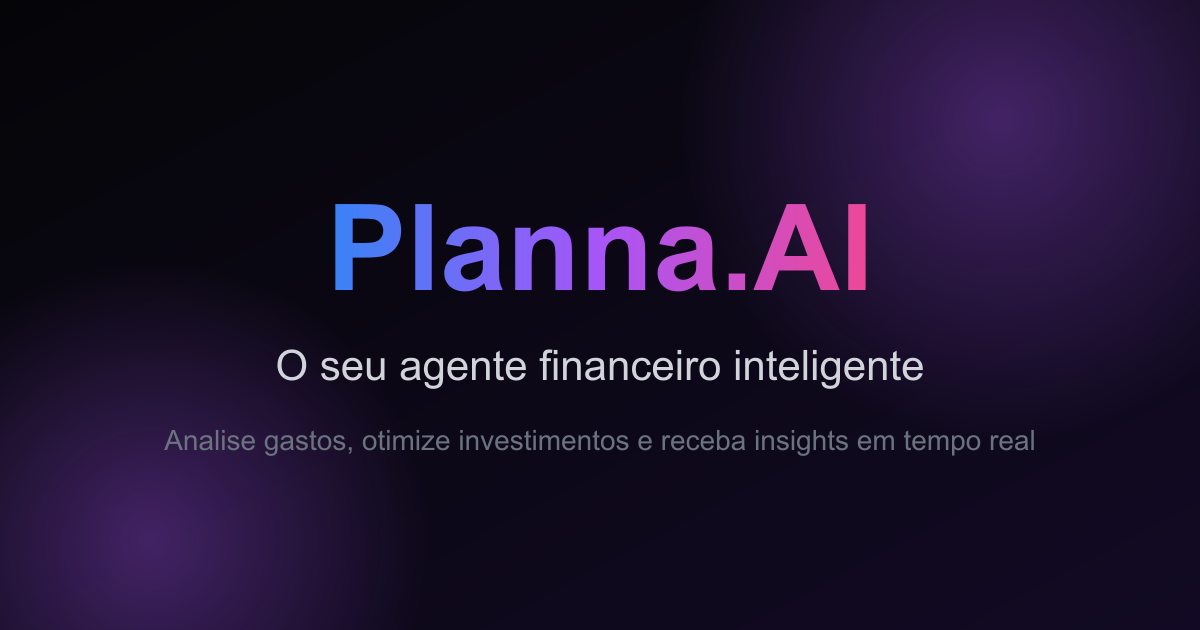
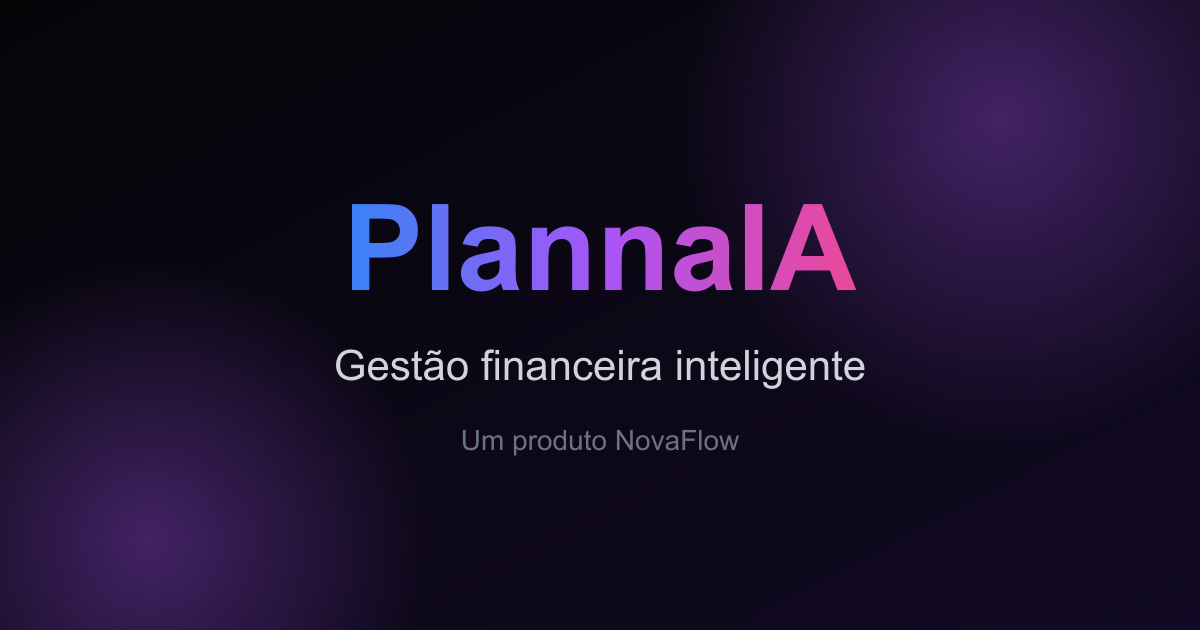
brand: standardize NovaFlow as company, PlannaIA as product

Changed region(s): [[0.2775, 0.3016, 0.74, 0.4825], [0.2158, 0.5429, 0.7708, 0.6333], [0.1233, 0.6635, 0.8633, 0.7238]]

diff --git a/src/app/layout.js b/src/app/layout.js
@@ -17,8 +17,8 @@ const dmSans = DM_Sans({
 
 // AQUI ESTÁ A MÁGICA DO SEO E DOS FAVICONS
 export const metadata = {
-  title: 'Planna.AI | O seu agente financeiro inteligente',
-  description: 'Analise seus gastos, otimize seus investimentos e receba insights em tempo real com inteligência artificial.',
+  title: 'PlannaIA - Gestão Financeira com IA | NovaFlow',
+  description: 'O PlannaIA analisa seus gastos, otimiza seus investimentos e entrega insights em tempo real com inteligência artificial. Um produto da NovaFlow.',
   icons: {
     icon: [
       { url: '/favicon/favicon.ico' },
@@ -29,13 +29,13 @@ export const metadata = {
   },
   manifest: '/favicon/site.webmanifest',
   openGraph: {
-    title: 'Planna.AI | O seu agente financeiro inteligente',
-    description: 'A revolução das suas finanças chegou. Entre na lista de espera.',
+    title: 'PlannaIA - Sua gestão financeira inteligente',
+    description: 'A revolução das suas finanças chegou. Entre na lista de espera do PlannaIA, o agente financeiro com IA da NovaFlow.',
     url: 'https://novaflow.me',
-    siteName: 'Planna.AI',
+    siteName: 'PlannaIA',
     locale: 'pt_BR',
     type: 'website',
-    images: [{ url: 'https://novaflow.me/og-image.png', width: 1200, height: 630, alt: 'Planna.AI — O seu agente financeiro inteligente' }],
+    images: [{ url: 'https://novaflow.me/og-image.png', width: 1200, height: 630, alt: 'PlannaIA — Gestão financeira inteligente, um produto NovaFlow' }],
   },
 };
 

diff --git a/scripts/generate-og-image.js b/scripts/generate-og-image.js
@@ -21,9 +21,9 @@ const svg = `<svg width="1200" height="630" xmlns="http://www.w3.org/2000/svg">
   <rect width="1200" height="630" fill="url(#bg)"/>
   <circle cx="1000" cy="120" r="320" fill="url(#glow)"/>
   <circle cx="150" cy="540" r="280" fill="url(#glow)"/>
-  <text x="600" y="290" font-family="Arial, Helvetica, sans-serif" font-size="120" font-weight="bold" fill="url(#brand)" text-anchor="middle">Planna.AI</text>
-  <text x="600" y="380" font-family="Arial, Helvetica, sans-serif" font-size="42" fill="#d1d5db" text-anchor="middle">O seu agente financeiro inteligente</text>
-  <text x="600" y="450" font-family="Arial, Helvetica, sans-serif" font-size="28" fill="#6b7280" text-anchor="middle">Analise gastos, otimize investimentos e receba insights em tempo real</text>
+  <text x="600" y="290" font-family="Arial, Helvetica, sans-serif" font-size="120" font-weight="bold" fill="url(#brand)" text-anchor="middle">PlannaIA</text>
+  <text x="600" y="380" font-family="Arial, Helvetica, sans-serif" font-size="42" fill="#d1d5db" text-anchor="middle">Gestão financeira inteligente</text>
+  <text x="600" y="450" font-family="Arial, Helvetica, sans-serif" font-size="28" fill="#6b7280" text-anchor="middle">Um produto NovaFlow</text>
 </svg>`;
 
 sharp(Buffer.from(svg))

diff --git a/src/components/FAQ.js b/src/components/FAQ.js
@@ -3,12 +3,12 @@ import { useState } from 'react';
 
 const faqData = [
   {
-    question: "O Planna.AI é seguro para conectar minha conta bancária?",
+    question: "O PlannaIA é seguro para conectar minha conta bancária?",
     answer: "Sim. A segurança é a nossa infraestrutura base. Utilizamos o Open Finance regulamentado pelo Banco Central com criptografia AES-256 de ponta a ponta. A nossa IA possui acesso estritamente de leitura (read-only) para gerar insights — nós nunca movimentamos seu dinheiro."
   },
   {
     question: "A inteligência artificial pode fazer pagamentos por mim?",
-    answer: "Não. O Planna.AI atua como o seu copiloto financeiro analítico. Ele categoriza gastos, identifica padrões e sugere otimizações, mas a movimentação do dinheiro e a palavra final continuam 100% nas suas mãos."
+    answer: "Não. O PlannaIA atua como o seu copiloto financeiro analítico. Ele categoriza gastos, identifica padrões e sugere otimizações, mas a movimentação do dinheiro e a palavra final continuam 100% nas suas mãos."
   },
   {
     question: "Quais bancos e corretoras são suportados?",

diff --git a/src/components/Footer.js b/src/components/Footer.js
@@ -5,10 +5,10 @@ export default function Footer() {
         
         <div className="flex flex-col gap-3 items-center md:items-start">
           <div className="font-syne font-extrabold text-2xl tracking-tighter bg-gradient-to-r from-blue-500 to-purple-500 bg-clip-text text-transparent">
-            Planna.AI
+            PlannaIA
           </div>
           <span className="text-gray-600 text-[11px]">
-            © 2025 Planna.AI · Todos os direitos reservados
+            © 2026 NovaFlow · Todos os direitos reservados
           </span>
         </div>
 

diff --git a/src/app/globals.css b/src/app/globals.css
@@ -1,7 +1,7 @@
 @import "tailwindcss";
 
 /* ------------------------------------------------------------
-   PLANNA.AI — GLOBAL STYLES (Tailwind v4)
+   PLANNAIA — GLOBAL STYLES (Tailwind v4)
    ------------------------------------------------------------ */
 
 @layer base {

diff --git a/src/app/obrigado/page.js b/src/app/obrigado/page.js
@@ -13,7 +13,7 @@ export default function Obrigado() {
           Acesso VIP Liberado!
         </h1>
         <p className="text-gray-400 text-lg md:text-xl max-w-lg mx-auto mb-10 font-dm">
-          Temos uma surpresa: a versão Beta do <span className="text-white font-bold">NovaFlow</span> acabou de sair do forno! Como você está na lista VIP, seus <span className="text-white font-bold">14 dias grátis</span> já estão disponíveis para uso imediato.
+          Temos uma surpresa: a versão Beta do <span className="text-white font-bold">PlannaIA</span> acabou de sair do forno! Como você está na lista VIP, seus <span className="text-white font-bold">14 dias grátis</span> já estão disponíveis para uso imediato.
         </p>
 
         {/* Grupo de Botões */}

diff --git a/src/components/CTA.js b/src/components/CTA.js
@@ -10,7 +10,7 @@ export default function CTA() {
           Seu dinheiro merece <br/> inteligência de verdade
         </h2>
         <p className="text-gray-400 max-w-xl mx-auto mb-10 text-lg">
-          Junte-se a mais de 12.000 pessoas que já transformaram sua vida financeira com o Planna.AI.
+          Junte-se a mais de 12.000 pessoas que já transformaram sua vida financeira com o PlannaIA.
         </p>
         
         <button className="bg-gradient-to-r from-blue-500 via-purple-500 to-pink-500 px-10 py-4 rounded-xl font-bold text-lg hover:scale-105 transition-transform shadow-[0_0_40px_rgba(139,92,246,0.3)]">

diff --git a/src/components/Hero.js b/src/components/Hero.js
@@ -34,7 +34,7 @@ export default function Hero() {
 
       {/* 3. Subtítulo */}
       <p className="reveal delay-400 mt-6 text-gray-400 text-lg md:text-xl max-w-[560px] leading-relaxed font-dm">
-        O Planna.AI analisa seus gastos, otimiza seus investimentos e entrega insights em tempo real — tudo numa interface intuitiva e poderosa.
+        O PlannaIA analisa seus gastos, otimiza seus investimentos e entrega insights em tempo real — tudo numa interface intuitiva e poderosa.
       </p>
 
       {/* 4. Botões */}

diff --git a/src/components/LeadForm.js b/src/components/LeadForm.js
@@ -51,7 +51,7 @@ export default function LeadForm() {
         <div className="absolute -top-24 -left-24 w-48 h-48 bg-purple-500/10 blur-[80px] rounded-full pointer-events-none" />
         <h2 className="font-syne font-bold text-2xl md:text-4xl mb-4 text-white">Garanta seu lugar</h2>
         <p className="text-gray-400 mb-8 text-sm md:text-base font-dm">
-          Seja o primeiro a saber quando a Planna.AI for lançada e garanta seus <span className="text-white font-bold">14 dias grátis</span>.
+          Seja o primeiro a saber quando o PlannaIA for lançado e garanta seus <span className="text-white font-bold">14 dias grátis</span>.
         </p>
         <form onSubmit={handleSubmit} className="flex flex-col md:flex-row gap-3 relative z-10">
           <input 

diff --git a/src/components/Navbar.js b/src/components/Navbar.js
@@ -23,7 +23,7 @@ export default function Navbar() {
         onClick={() => window.scrollTo({ top: 0, behavior: 'smooth' })}
         className="font-syne font-extrabold text-xl tracking-tighter bg-gradient-to-r from-blue-500 to-purple-500 bg-clip-text text-transparent cursor-pointer"
       >
-        Planna.AI
+        PlannaIA
       </div>
       
       <ul className="hidden md:flex gap-10 list-none">

diff --git a/src/components/Testimonials.js b/src/components/Testimonials.js
@@ -17,7 +17,7 @@ export default function Testimonials() {
     {
       name: "Rafaela",
       role: "Beta Tester",
-      text: "Eu usava três apps diferentes para acompanhar contas e investimentos. O Planna unificou tudo e os insights da inteligência artificial são muito precisos.",
+      text: "Eu usava três apps diferentes para acompanhar contas e investimentos. O PlannaIA unificou tudo e os insights da inteligência artificial são muito precisos.",
       initial: "R"
     }
   ];